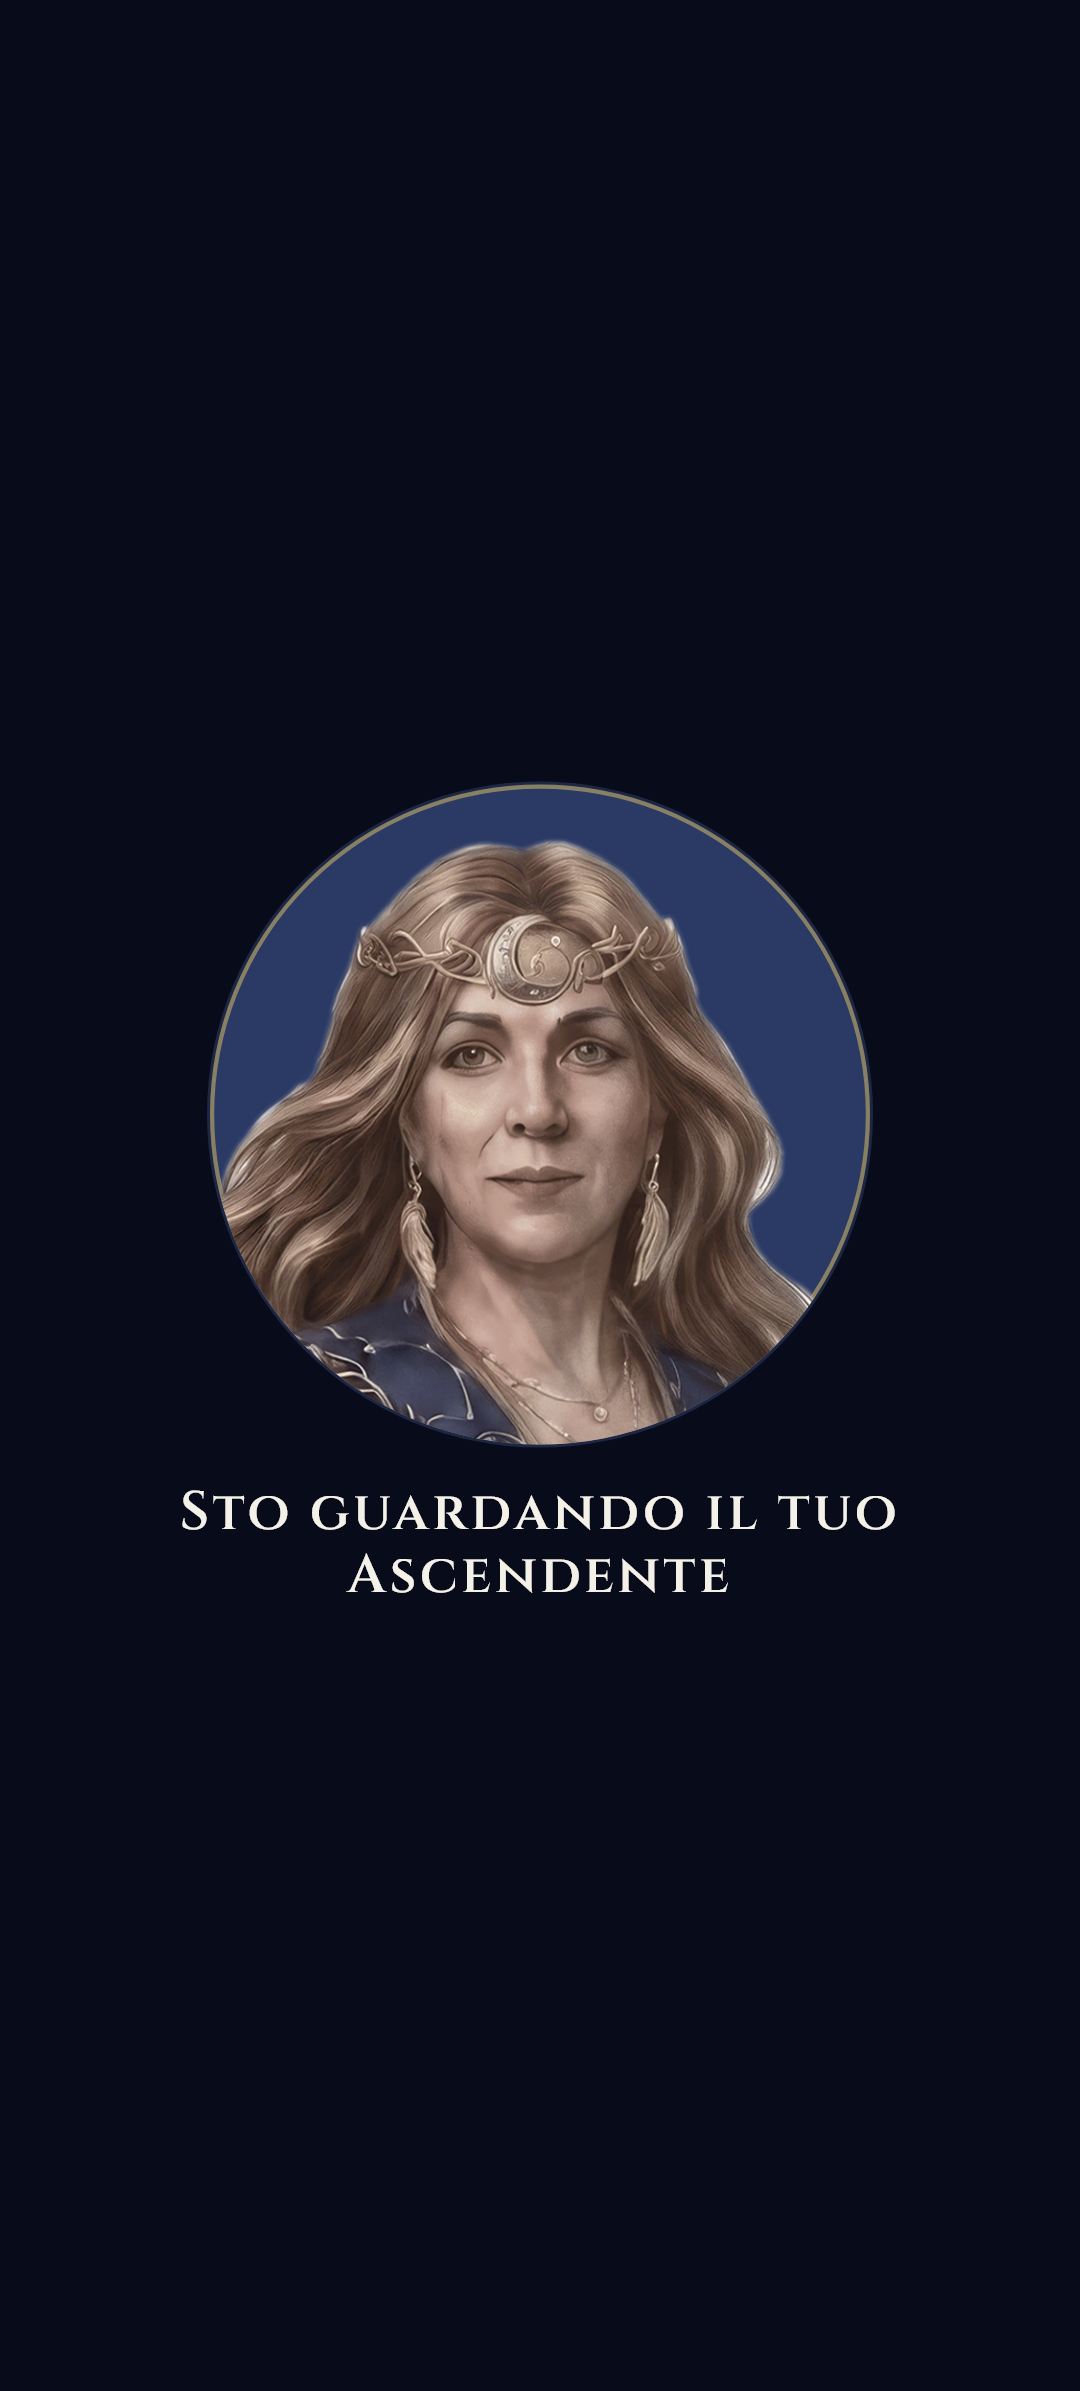
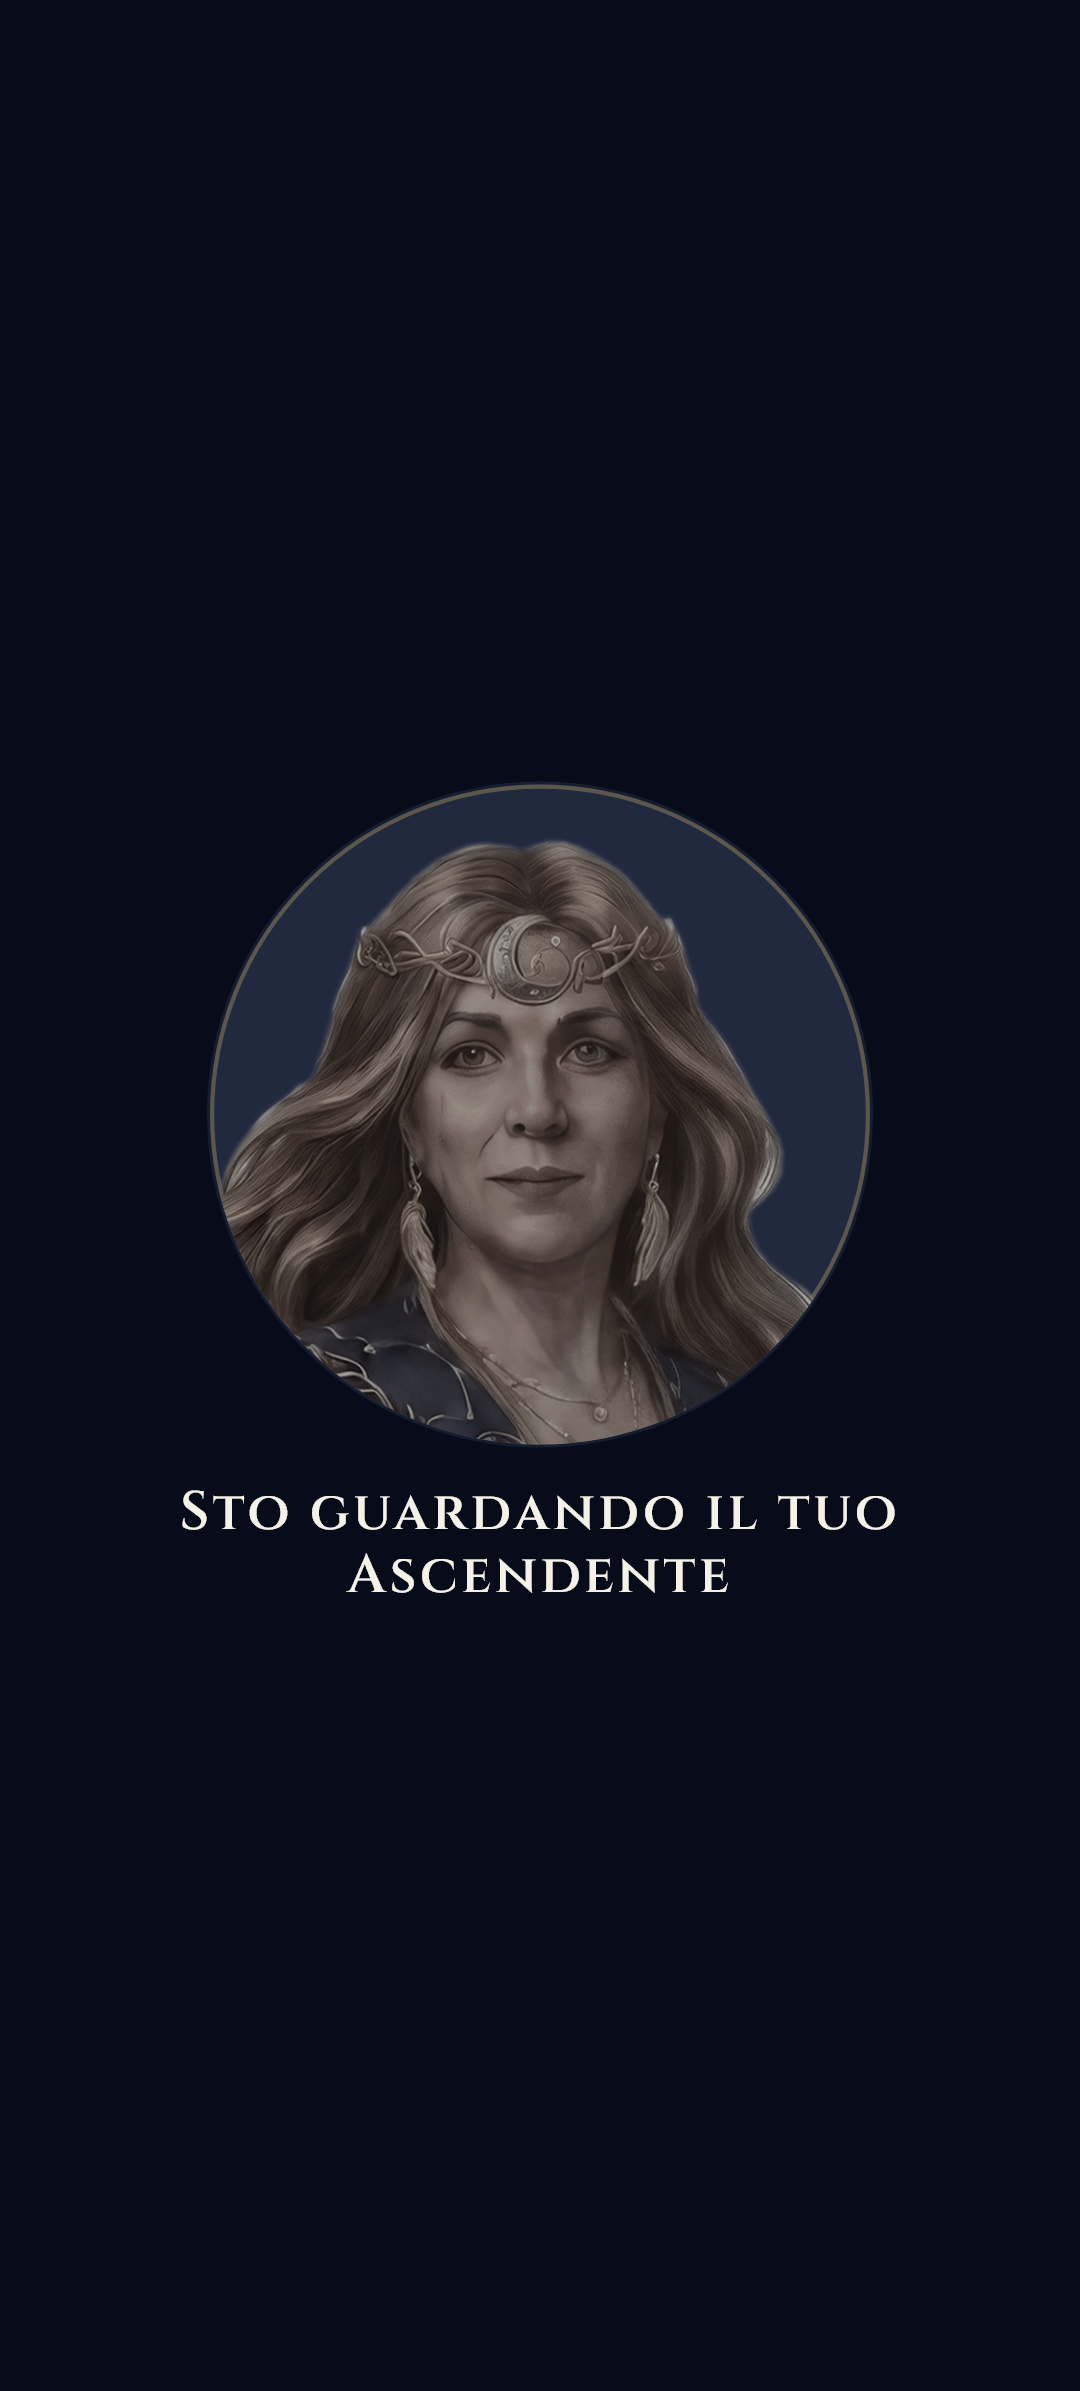
L'emblema si accende, e adesso si vede che si accende
**I numeri, e sono quelli misurati.** La scena agiva SOLO sulla
saturazione, e la saturazione dell'arte del busto arriva al massimo a
0,4263: fra il 57 per cento e il 100 per cento ballavano 0,17, troppo
poco perche' un occhio distingua due fotogrammi. E la curva lineare
consumava quel poco subito, quindi il grigio, che e' il segnale, durava
un istante.

DUE CORREZIONI, perche' una sola non basta.

LA LUMINOSITA' ENTRA NELL'EFFETTO. Un'immagine che parte grigia E SPENTA
e arriva a colori E LUMINOSA si legge sempre, qualunque sia la
saturazione dell'arte: e' il modo in cui funziona qualunque cosa che si
accende. Il valore di partenza non e' indovinato: il suggerimento era 45
per cento, e la misura lo conferma. Luminosita' del busto a riposo
0,3932, fondo cosmico piu' scuro dei tre 0,0347, rapporto di contrasto a
0,45 pari a 2,39 contro una soglia dichiarata di 2,0. Al 30 per cento
scenderebbe a 1,77 e il Maestro comincerebbe a sparire nello sfondo, che
sarebbe peggio del difetto di partenza.

IL GRIGIO HA IL SUO TEMPO. La curva non e' piu' lineare: il primo secondo
resta sullo spento, poi da 1 a 3 secondi sale con `easeInOut`.
L'accensione resta dentro i tre secondi gia' approvati.

LA MISURA NON E' A OCCHIO. La prova conta i pixel del busto e legge
saturazione E luminosita' a 0, 1000 e 3000 millisecondi. Una differenza
di peso fra due file non prova che due immagini si distinguano: prova
solo che sono due file diversi, ed e' l'errore gia' visto sulle due
[…]

Changed region(s): [[0.1833, 0.3095, 0.825, 0.619]]

diff --git a/test/lemblema_si_accende_test.dart b/test/lemblema_si_accende_test.dart
@@ -1,0 +1,218 @@
+import 'dart:ui' as ui;
+
+import 'package:esoteric_circle/core/maestro/maestro.dart';
+import 'package:esoteric_circle/core/maestro/maestro_controller.dart';
+import 'package:esoteric_circle/core/maestro/natal_context.dart';
+import 'package:esoteric_circle/core/maestro/tempi_dell_attesa.dart';
+import 'package:esoteric_circle/core/quality/quality_tier.dart';
+import 'package:esoteric_circle/design_system/components/consulto_del_cielo_view.dart';
+import 'package:esoteric_circle/design_system/theme/maestro_scope.dart';
+import 'package:esoteric_circle/design_system/tokens/color_tokens.dart';
+import 'package:flutter/material.dart';
+import 'package:flutter/rendering.dart';
+import 'package:flutter_test/flutter_test.dart';
+import 'package:provider/provider.dart';
+
+/// L'EMBLEMA SI ACCENDE, E SI VEDE CHE SI ACCENDE.
+///
+/// **I numeri che hanno fatto nascere questo file, misurati.** La scena agiva
+/// solo sulla saturazione, e la saturazione dell'arte del busto arriva al
+/// massimo a 0,4263: fra il 57 per cento e il 100 per cento ballavano 0,17,
+/// troppo poco perche' un occhio distingua due fotogrammi. E la curva lineare
+/// consumava quel poco subito, quindi il grigio, che e' il segnale, durava un
+/// istante.
+///
+/// **La misura non e' a occhio.** Una differenza di peso fra due file non prova
+/// che due immagini si distinguano: prova solo che sono due file diversi, ed e'
+/// l'errore gia' visto sulle due anteprime da 105.481 byte. Qui si contano i
+/// pixel.
+void main() {
+  const natal = NatalContext(sunSign: 'Cancro', moonSign: 'Pesci');
+
+  /// LE SOGLIE, e da dove vengono.
+  ///
+  /// A colorazione piena la saturazione media del busto misura 0,4263 e la
+  /// luminosita' 0,3932. Le soglie stanno nei vuoti fra i tre istanti, non al
+  /// filo di nessuno.
+  const sogliaGrigio = 0.06; // sopra questa non e' piu' grigio
+  const sogliaSpento = 0.25; // sopra questa non e' piu' spento
+  const sogliaAcceso = 0.30; // sotto questa non e' ancora acceso
+
+  /// Il fondo cosmico piu' SCURO dei tre, che e' il caso peggiore per il
+  /// contrasto: se il Maestro si legge su questo, si legge su tutti.
+  double luminanza(Color c) =>
+      (0.2126 * ((c.r * 255).round()) +
+          0.7152 * ((c.g * 255).round()) +
+          0.0722 * ((c.b * 255).round())) /
+      255.0;
+
+  Widget host(Widget figlio, {bool fermo = false}) => MultiProvider(
+        providers: [
+          ChangeNotifierProvider(create: (_) => QualityTierController()),
+          ChangeNotifierProvider(create: (_) => MaestroController()),
+        ],
+        child: MaterialApp(
+          home: Builder(
+            builder: (ctx) => MediaQuery(
+              data: MediaQuery.of(ctx).copyWith(disableAnimations: fermo),
+              child: MaestroScope(
+                child: Scaffold(
+                  backgroundColor: ColorTokens.caligoDeepest,
+                  body: figlio,
+                ),
+              ),
+            ),
+          ),
+        ),
+      );
+
+  /// Saturazione e luminosita' medie dei pixel del busto, contate davvero.
+  Future<({double sat, double lum})> misura(
+      WidgetTester tester, GlobalKey radice) async {
+    var sat = 0.0, lum = 0.0;
+    var n = 0;
+    await tester.runAsync(() async {
+      final rb =
+          radice.currentContext!.findRenderObject()! as RenderRepaintBoundary;
+      final img = await rb.toImage(pixelRatio: 1.0);
+      final d = (await img.toByteData(format: ui.ImageByteFormat.rawRgba))!;
+      for (var i = 0; i < d.lengthInBytes; i += 4) {
+        final r = d.getUint8(i), g = d.getUint8(i + 1), b = d.getUint8(i + 2);
+        if (d.getUint8(i + 3) < 250) continue;
+        final mx = [r, g, b].reduce((x, y) => x > y ? x : y);
+        final mn = [r, g, b].reduce((x, y) => x < y ? x : y);
+        // Il nero puro attorno al busto non e' immagine: non entra nel conto.
+        if (mx < 12) continue;
+        sat += (mx - mn) / mx;
+        lum += (0.2126 * r + 0.7152 * g + 0.0722 * b) / 255.0;
+        n++;
+      }
+      img.dispose();
+    });
+    expect(n, greaterThan(1000), reason: 'il busto non e\' stato dipinto');
+    return (sat: sat / n, lum: lum / n);
+  }
+
+  Future<GlobalKey> monta(WidgetTester tester, {bool fermo = false}) async {
+    tester.view.devicePixelRatio = 1.0;
+    tester.view.physicalSize = const Size(360, 797);
+    addTearDown(tester.view.resetPhysicalSize);
+    addTearDown(tester.view.resetDevicePixelRatio);
+    final radice = GlobalKey();
+    await tester.pumpWidget(host(
+      Center(
+        child: RepaintBoundary(
+          key: radice,
+          child: const ConsultoDelCieloView(
+              natal: natal, maestro: Maestro.medora),
+        ),
+      ),
+      fermo: fermo,
+    ));
+    await tester.pump();
+    await tester.runAsync(() async {
+      final ctx = tester.element(find.byType(MaterialApp));
+      await precacheImage(AssetImage(Maestro.medora.avatarAsset), ctx);
+    });
+    await tester.pump();
+    return radice;
+  }
+
+  testWidgets('A zero e\' grigio E spento', (tester) async {
+    final radice = await monta(tester);
+    final m = await misura(tester, radice);
+    expect(m.sat, lessThan(sogliaGrigio),
+        reason: 'la saturazione iniziale e\' ${m.sat}, quindi non e\' grigio');
+    expect(m.lum, lessThan(sogliaSpento),
+        reason: 'la luminosita\' iniziale e\' ${m.lum}, quindi non e\' spento: '
+            'un\'immagine che parte gia\' luminosa non sembra accendersi');
+  });
+
+  test('I tempi dichiarati sono quelli che l\'ordine chiede', () {
+    // **GLI ISTANTI SONO LETTERALI, e non presi dalle costanti sotto esame.**
+    // Le prime stesure pompavano `grigioPrimaDiSalire` e
+    // `colorazioneDellEmblema`: accorciando la costante si accorciava anche la
+    // misura, quindi la prova restava VERDE su un difetto che c'era. Una prova
+    // che calcola dal numero che deve sorvegliare verifica se stessa.
+    expect(TempiDellAttesa.grigioPrimaDiSalire,
+        const Duration(milliseconds: 1000));
+    expect(TempiDellAttesa.colorazioneDellEmblema,
+        const Duration(milliseconds: 3000));
+  });
+
+  testWidgets('A 1000 millisecondi e\' ANCORA grigio', (tester) async {
+    // E' la riga che rende leggibile il segnale: senza, il grigio dura un
+    // istante e sembra un'immagine venuta male invece di una che si accende.
+    final radice = await monta(tester);
+    await tester.pump(const Duration(milliseconds: 970));
+    final m = await misura(tester, radice);
+    expect(m.sat, lessThan(sogliaGrigio),
+        reason: 'a un secondo la saturazione e\' gia\' ${m.sat}: il grigio non '
+            'dura abbastanza da essere letto');
+  });
+
+  testWidgets('A tre secondi e\' pieno, di colore E di luce', (tester) async {
+    final radice = await monta(tester);
+    await tester.pump(const Duration(milliseconds: 3100));
+    final m = await misura(tester, radice);
+    expect(m.sat, greaterThan(sogliaAcceso),
+        reason: 'a tre secondi la saturazione e\' solo ${m.sat}');
+    expect(m.lum, greaterThan(sogliaSpento),
+        reason: 'a tre secondi la luminosita\' e\' solo ${m.lum}');
+  });
+
+  testWidgets('Arrivato pieno resta pieno, e non riparte', (tester) async {
+    final radice = await monta(tester);
+    await tester.pump(const Duration(milliseconds: 3100));
+    final pieno = await misura(tester, radice);
+    // **PRIMA SI VERIFICA CHE SIA ARRIVATO PIENO.** Senza questa riga la prova
+    // confrontava uno stato rotto con un altro stato rotto: con l'accensione
+    // che riparte a ogni frase, a 3100 millisecondi il timer aveva gia'
+    // rimesso tutto a zero, quindi `pieno` misurava 0,0005 e il confronto con
+    // `dopo` tornava vero. Due misure sbagliate uguali non sono una prova.
+    expect(pieno.sat, greaterThan(sogliaAcceso),
+        reason: 'non e mai arrivato pieno: ${pieno.sat}');
+    // Passa una frase, poi si guarda POCO DOPO il cambio: se l'accensione
+    // ripartisse, li' sarebbe ancora dentro il secondo di grigio, cioe' a
+    // zero. Misurare dopo un giro intero avrebbe potuto ritrovarla piena per
+    // caso, ed e' il motivo per cui la prima stesura restava verde.
+    await tester.pump(TempiDellAttesa.durataBattuta);
+    await tester.pump(const Duration(milliseconds: 200));
+    final dopo = await misura(tester, radice);
+    expect(dopo.sat, closeTo(pieno.sat, 0.01),
+        reason: 'l\'emblema si e\' scolorito: da ${pieno.sat} a ${dopo.sat}');
+    expect(dopo.lum, closeTo(pieno.lum, 0.01),
+        reason: 'l\'emblema si e\' spento di nuovo');
+  });
+
+  testWidgets('Con Riduci Movimento parte gia\' pieno', (tester) async {
+    final radice = await monta(tester, fermo: true);
+    final m = await misura(tester, radice);
+    expect(m.sat, greaterThan(sogliaAcceso),
+        reason: 'con Riduci Movimento l\'emblema parte grigio: si spegne il '
+            'moto, non l\'immagine');
+    expect(m.lum, greaterThan(sogliaSpento),
+        reason: 'con Riduci Movimento l\'emblema parte spento');
+    expect(tester.binding.transientCallbackCount, 0,
+        reason: 'resta registrato un ticker');
+  });
+
+  testWidgets('Anche spento, il busto si stacca dal fondo', (tester) async {
+    // LA SOGLIA DI CONTRASTO, e il metodo con cui e' presa.
+    //
+    // Rapporto di contrasto nella forma di WCAG, `(L1 + 0,05) / (L2 + 0,05)`,
+    // fra la luminanza media del busto all'istante zero e quella del fondo
+    // cosmico piu' SCURO dei tre, che e' il caso peggiore. La soglia e' 2,0:
+    // al 45 per cento di luce il rapporto misura circa 2,4, e sotto il 30 per
+    // cento scenderebbe a 1,8, cioe' il Maestro comincerebbe a sparire nel
+    // fondo. Sparire sarebbe peggio del difetto da cui siamo partiti.
+    const sogliaContrasto = 2.0;
+    final radice = await monta(tester);
+    final m = await misura(tester, radice);
+    final fondo = luminanza(ColorTokens.caligoDeepest);
+    final rapporto = (m.lum + 0.05) / (fondo + 0.05);
+    expect(rapporto, greaterThan(sogliaContrasto),
+        reason: 'il busto spento ha contrasto $rapporto sul fondo piu\' '
+            'scuro: sotto $sogliaContrasto il Maestro sparisce nello sfondo');
+  });
+}

diff --git a/lib/design_system/components/consulto_del_cielo_view.dart b/lib/design_system/components/consulto_del_cielo_view.dart
@@ -105,9 +105,13 @@ class ConsultoDelCieloView extends StatefulWidget {
 
 class _ConsultoDelCieloViewState extends State<ConsultoDelCieloView>
     with SingleTickerProviderStateMixin {
-  /// La colorazione. NULLA a moto fermo, e non creata e lasciata ferma: un
-  /// controllore che nessuno fa girare resta un ticker registrato nell'albero.
-  AnimationController? _colore;
+  /// L'accensione, gia' curvata. NULLA a moto fermo, e non creata e lasciata
+  /// ferma: un controllore che nessuno fa girare resta un ticker registrato
+  /// nell'albero.
+  Animation<double>? _colore;
+
+  /// Il motore sotto la curva, tenuto per poterlo chiudere.
+  AnimationController? _motore;
 
   Timer? _passo;
   int _corrente = 0;
@@ -129,10 +133,26 @@ class _ConsultoDelCieloViewState extends State<ConsultoDelCieloView>
     if (_frasi.isNotEmpty) _corrente = widget.rotazione % _frasi.length;
 
     if (_fermo) return;
-    _colore = AnimationController(
+    // LA CURVA NON E' PIU' LINEARE, e il primo secondo resta sul grigio.
+    //
+    // `Interval` tiene il valore a zero per il primo terzo dei tre secondi,
+    // poi `easeInOut` lo porta a uno senza scatti. Cosi' il segnale dura
+    // abbastanza da essere letto, e l'accensione resta dentro i tre secondi.
+    final motore = AnimationController(
       vsync: this,
       duration: TempiDellAttesa.colorazioneDellEmblema,
-    )..forward();
+    );
+    _colore = CurvedAnimation(
+      parent: motore,
+      curve: Interval(
+        TempiDellAttesa.grigioPrimaDiSalire.inMilliseconds /
+            TempiDellAttesa.colorazioneDellEmblema.inMilliseconds,
+        1,
+        curve: Curves.easeInOut,
+      ),
+    );
+    _motore = motore;
+    motore.forward();
     _passo = Timer.periodic(widget.durataFrase, (_) {
       if (!mounted || _frasi.isEmpty) return;
       // SI RICOMINCIA DALLA PRIMA, e l'emblema non si scolora: il controllore
@@ -149,7 +169,7 @@ class _ConsultoDelCieloViewState extends State<ConsultoDelCieloView>
   @override
   void dispose() {
     _passo?.cancel();
-    _colore?.dispose();
+    _motore?.dispose();
     super.dispose();
   }
 
@@ -229,15 +249,38 @@ class _EmblemaCheSiColora extends StatelessWidget {
   final double lato;
   final Animation<double>? colorazione;
 
-  /// La matrice che toglie il colore. A `quanto` zero e' grigia piena, a uno
-  /// e' l'identita', cioe' il colore vero dell'arte.
+  /// QUANTO E' SPENTA L'IMMAGINE ALL'INIZIO, in frazione della sua luce.
+  ///
+  /// **Perche' la luminosita' entra nell'effetto.** Prima si agiva solo sulla
+  /// saturazione, e la saturazione dell'arte arriva al massimo a 0,4263:
+  /// l'escursione disponibile era un terzo di quella che serve, e due
+  /// fotogrammi a saturazione diversa si somigliavano. Un'immagine che parte
+  /// grigia E SPENTA e arriva a colori E LUMINOSA si legge sempre, qualunque
+  /// sia la saturazione dell'arte, perche' e' il modo in cui funziona
+  /// qualunque cosa che si accende.
+  ///
+  /// **Il numero e' tarato, non indovinato.** Il punto di partenza suggerito
+  /// era 45 per cento. Misurata la luminosita' del busto a riposo, 0,3932, e
+  /// quella del fondo cosmico piu' scuro dei tre, il rosso di Caligo a
+  /// 0xFF1A0406 che vale 0,0347, il rapporto di contrasto a 0,45 vale 2,39
+  /// contro una soglia dichiarata di 2,0. Sotto il 30 per cento scenderebbe a
+  /// 1,77 e il Maestro comincerebbe a sparire nel fondo, che sarebbe peggio
+  /// del difetto di partenza.
+  static const double spentoAllInizio = 0.45;
+
+  /// La matrice dell'ACCENSIONE: saturazione e luce salgono insieme.
+  ///
+  /// A `quanto` zero e' grigia e spenta, a uno e' l'immagine vera.
   static ColorFilter filtro(double quanto) {
     const r = 0.2126, g = 0.7152, b = 0.0722;
-    final q = 1 - quanto.clamp(0.0, 1.0);
+    final q0 = quanto.clamp(0.0, 1.0);
+    final q = 1 - q0;
+    // La luce sale da `spentoAllInizio` a uno seguendo la stessa curva.
+    final luce = spentoAllInizio + (1 - spentoAllInizio) * q0;
     return ColorFilter.matrix(<double>[
-      r * q + quanto, g * q, b * q, 0, 0, //
-      r * q, g * q + quanto, b * q, 0, 0, //
-      r * q, g * q, b * q + quanto, 0, 0, //
+      (r * q + q0) * luce, g * q * luce, b * q * luce, 0, 0, //
+      r * q * luce, (g * q + q0) * luce, b * q * luce, 0, 0, //
+      r * q * luce, g * q * luce, (b * q + q0) * luce, 0, 0, //
       0, 0, 0, 1, 0, //
     ]);
   }

diff --git a/test/screenshot_capture_test.dart b/test/screenshot_capture_test.dart
@@ -2433,8 +2433,15 @@ void main() {
   // la coppia del Riduci Movimento, che pesava 105.481 byte in tutti e due i
   // file perche' erano lo stesso file.
   const colorazione = <String, Duration>{
+    // **QUELLA A ZERO NON ESISTEVA, ed e' la ragione per cui questo difetto e'
+    // stato diagnosticato male due volte.** Nessuno ha mai guardato l'istante
+    // che decide se l'effetto funziona: si vedevano solo il fotogramma a meta'
+    // e quello pieno, che si somigliavano, e se ne concludeva che l'emblema
+    // non partisse mai grigio. Partiva grigio da sempre, per 0,0012 di
+    // saturazione misurata: era il grigio a durare troppo poco.
+    'consulto-emblema-grigio-spento.png': Duration.zero,
     'consulto-emblema-meta.png': Duration(milliseconds: 1500),
-    'consulto-emblema-pieno.png': Duration(milliseconds: 3200),
+    'consulto-emblema-pieno.png': Duration(milliseconds: 3000),
   };
   for (final istante in colorazione.entries) {
     testWidgets('Cattura ${istante.key}', (tester) async {

diff --git a/lib/core/maestro/tempi_dell_attesa.dart b/lib/core/maestro/tempi_dell_attesa.dart
@@ -86,6 +86,15 @@ class TempiDellAttesa {
   /// se la risposta tarda e le frasi ripartono.
   static const Duration colorazioneDellEmblema = Duration(seconds: 3);
 
+  /// QUANTO RESTA FERMO SUL GRIGIO SPENTO, prima di cominciare a salire.
+  ///
+  /// **Il numero che ha fatto nascere questa attesa.** La curva era lineare su
+  /// tre secondi, e la saturazione dell'arte arriva al massimo a 0,4263: a
+  /// meta' tempo il colore c'era gia' quasi tutto, quindi il grigio, che e' il
+  /// segnale, durava un istante. Un secondo intero fermo sullo spento e' cio'
+  /// che rende leggibile "aspetta, sto lavorando".
+  static const Duration grigioPrimaDiSalire = Duration(seconds: 1);
+
   /// Quanto ci mette la scena a sparire quando la risposta e' pronta.
   ///
   /// Non sparisce di colpo: se la risposta arriva prima della durata minima la
